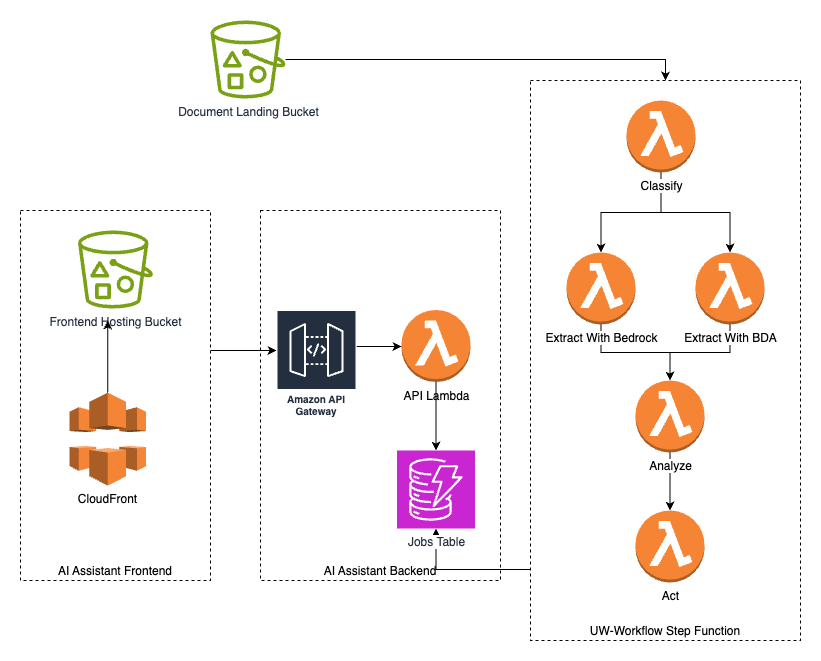
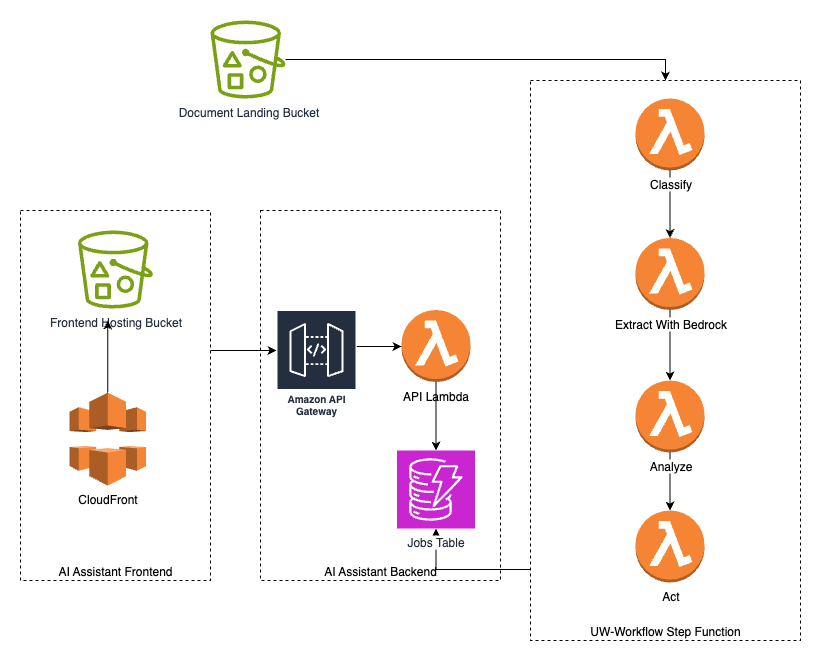
README updates

diff --git a/README.md b/README.md
@@ -159,6 +159,7 @@ The project consists of three main components:
   - **API Gateway (api-handler Lambda)**: Handles all API requests, including document uploads (via presigned S3 URLs), retrieving job statuses, and fetching analysis results.
   - **Document Extraction (bedrock-extract Lambda)**: Triggered by new document uploads to S3. It converts PDF documents to images, extracts key-value information from each page using Amazon Bedrock's Claude 3 model, classifies pages, and stores the raw extracted data.
   - **Document Analysis (analyze Lambda)**: Processes the extracted data from the `bedrock-extract` function. It uses Amazon Bedrock's Claude 3.5 Sonnet model to perform comprehensive underwriting analysis, identifying risks, discrepancies, and generating final recommendations.
+  - **Agentic Actions (act Lambda)**: Uses the [Strands Agents SDK](https://strandsagents.com/) to perform agentic actions, such as auto declining or requesting additional documentation. 
   - **Orchestration**: AWS Step Functions coordinate the flow between the document upload, extraction, and analysis steps, ensuring a robust and scalable workflow.
   - **Data Storage**: DynamoDB is used to store job metadata, extracted data, and the final analysis results, while S3 is used for raw document storage.
 
